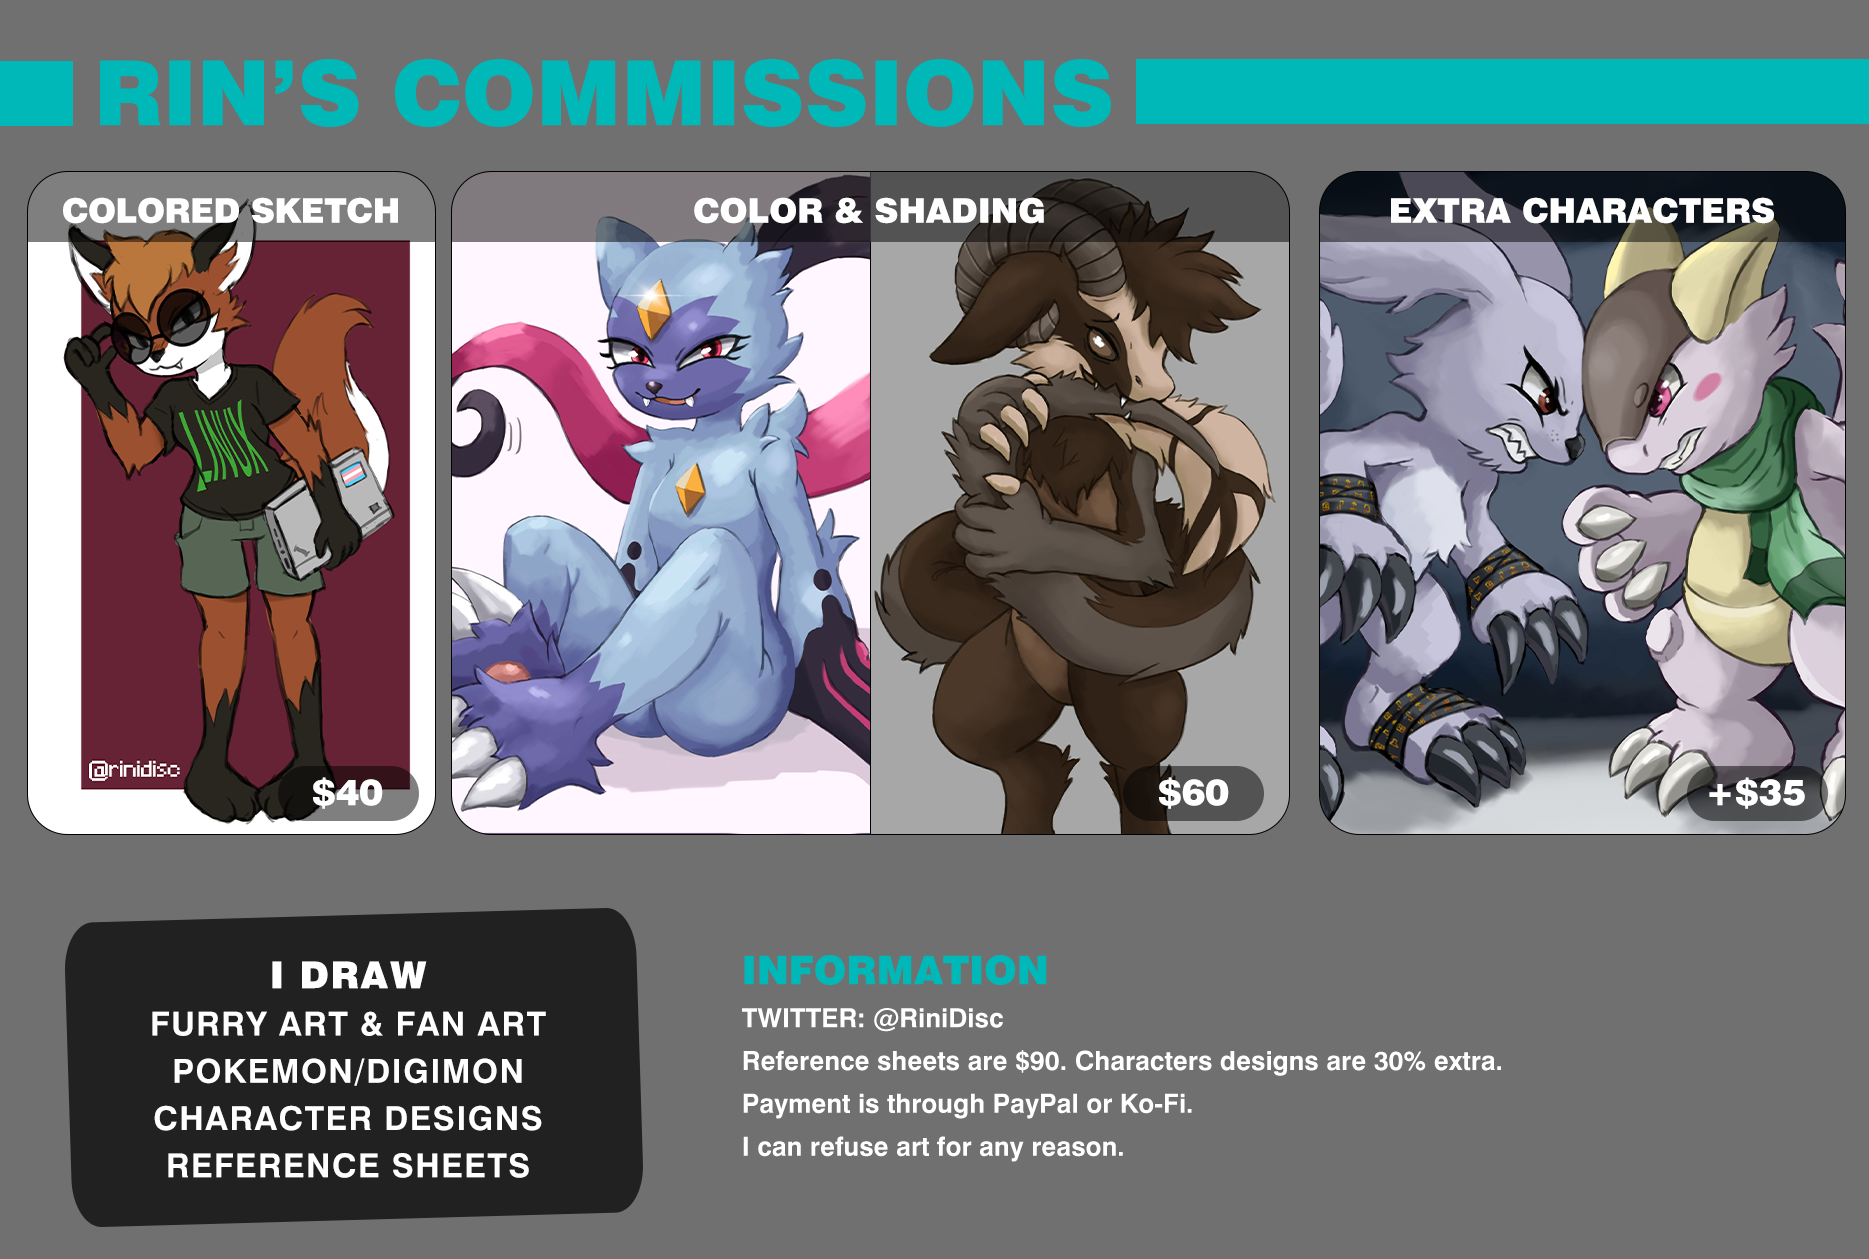
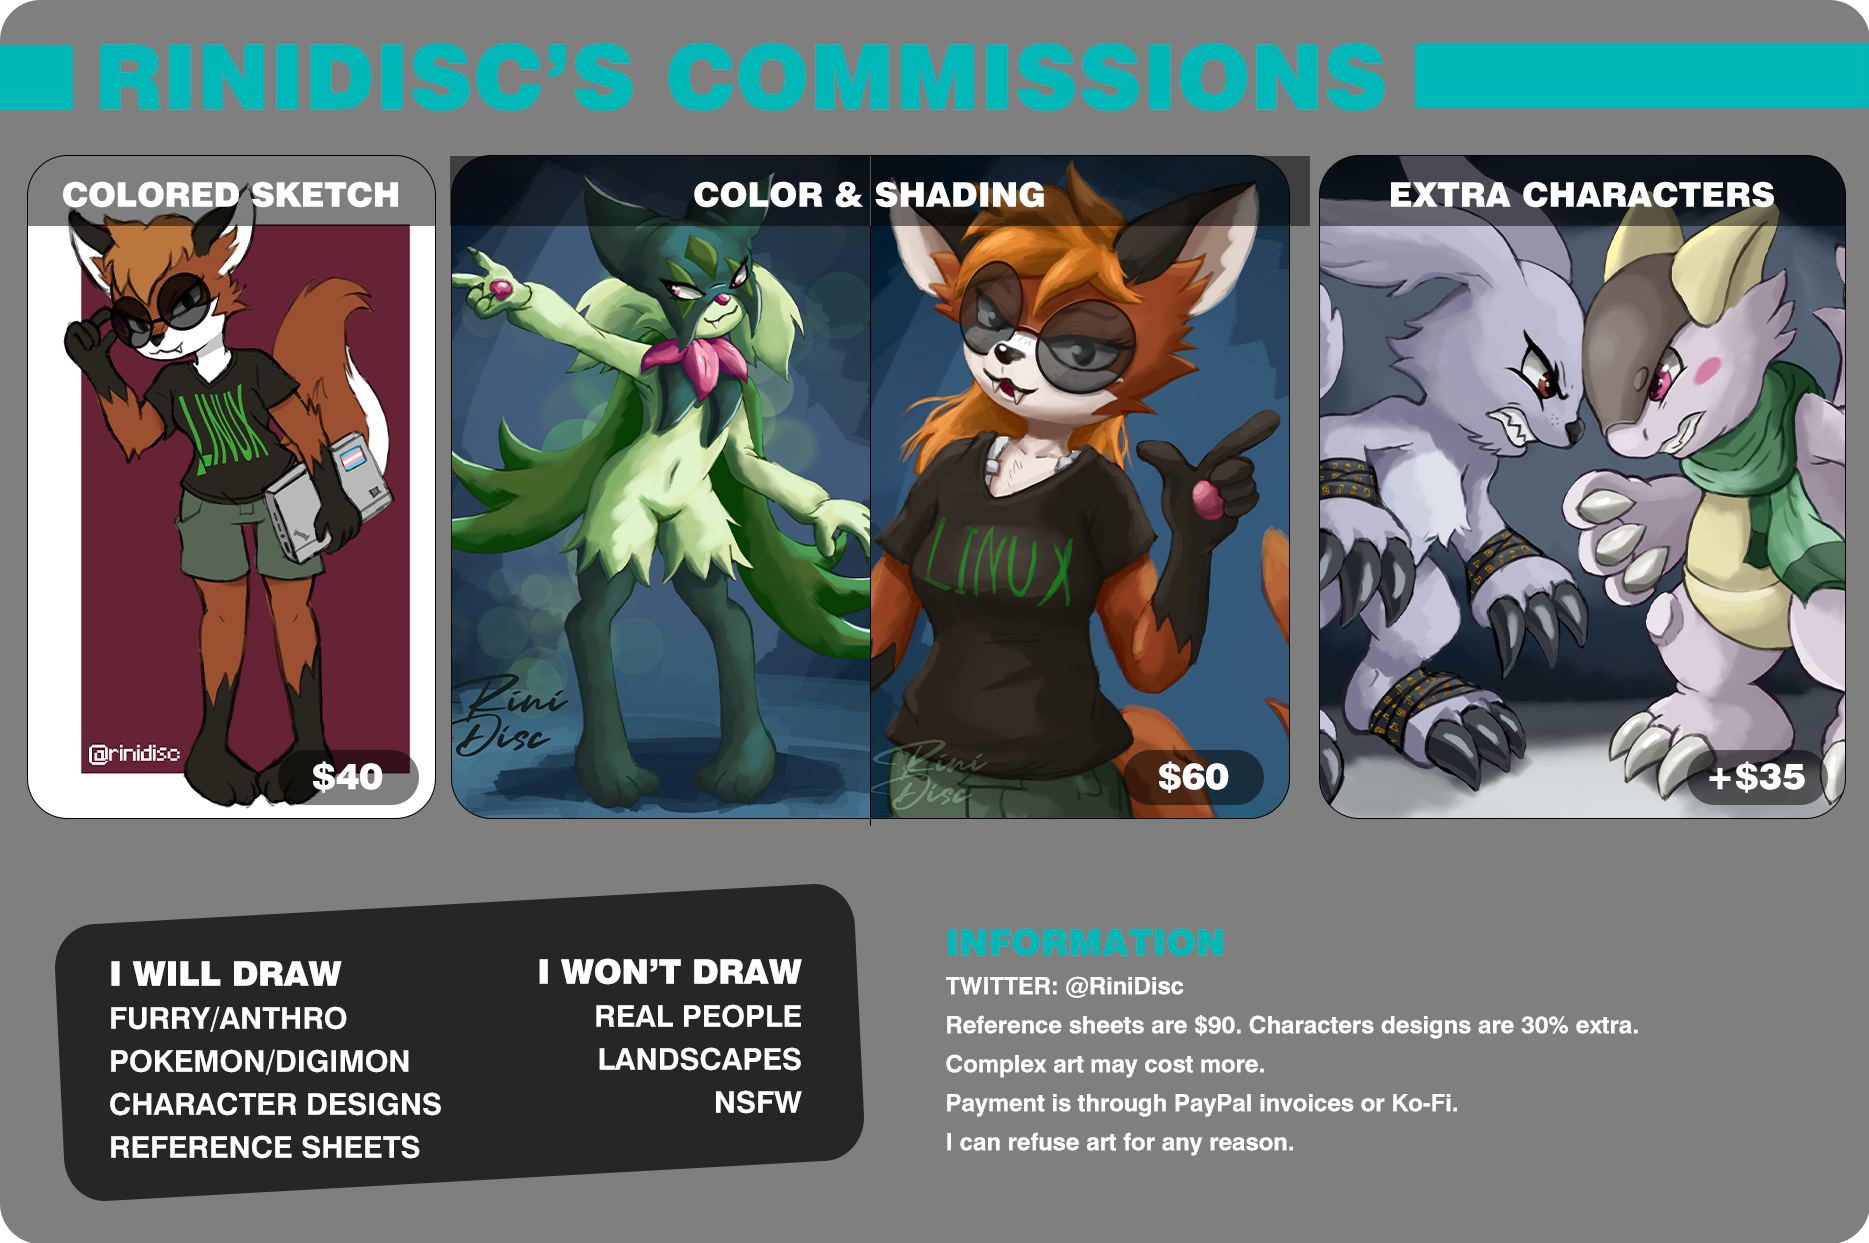
New Commissions sheet

diff --git a/Contact/commissions.html b/Contact/commissions.html
@@ -1,0 +1,126 @@
+<!DOCTYPE html>
+<html>
+<head>
+<link href='https://fonts.googleapis.com/css?family=Noto Sans' rel='stylesheet'>
+<link href='http://fonts.googleapis.com/css?family=Lato:300,400,700' rel='stylesheet' type='text/css'>
+<link rel="icon" type="image/x-icon" href="../fav.png">
+<title>Commissions</title>
+<style>
+    @import "../gallery.css";
+    body {
+        background-color:rgb(60, 58, 63);
+        background-image: url('bg.jpg');
+    }
+    h1 {
+      color:#0ab5b5;
+      font-size: 56px;
+    }
+    h2 {
+      color:#0ab5b5;
+      margin-bottom:0px;
+    }
+    img {
+      object-fit:contain;
+      aspect-ratio:initial;
+    }
+    .img_wide {
+      object-fit:contain;
+      aspect-ratio:unset;
+      width:100%;
+      border:0px;
+      border-radius: 20px;
+    }
+    .img_tweet {
+      max-width: 100px;
+      max-height: 100px;
+    }
+
+    .button-1 {
+      background-color: #0ab5b5;
+      border-radius: 8px;
+      border-style: none;
+      box-sizing: border-box;
+      color: #FFFFFF;
+      cursor: pointer;
+      display: inline-block;
+      font-family: 'lato', sans-serif;
+      font-size: 18px;
+      font-weight: normal;
+      height: 40px;
+      line-height: 20px;
+      list-style: none;
+      margin: 0;
+      outline: none;
+      padding: 10px 16px;
+      position: relative;
+      text-align: center;
+      text-decoration: none;
+      transition: color 100ms;
+      vertical-align: baseline;
+      user-select: none;
+      -webkit-user-select: none;
+      touch-action: manipulation;
+    }
+
+    .button-1:hover,
+    .button-1:focus {
+      background-color: #348e90;
+    }
+
+</style>
+</head>
+<body>
+
+  <div id="navbar">
+    <A HREF="../index.html">
+    <h1 class="navtitle" style="color:#0ab5b5">HOME</h1>
+    </A>
+
+    <A HREF="../commissions/commissions.html">
+    <h1 class="navtitle" style="color:white">COMMISSIONS</h1>
+    </A>
+
+    <A HREF="http://www.twitter.com/rinidisc">
+    <h1 class="navtitle" style="color:#0ab5b5">TWITTER</h1>
+    </A>
+
+    <A HREF="https://ko-fi.com/rinidisc">
+    <h1 class="navtitle" style="color:#0ab5b5">KO-FI</h1>
+    </A>
+  </div>
+
+
+  <div id=container>
+
+
+    <h2>Places to reach me</h2>
+    <A HREF="https://twitter.com/RiniDisc">
+      <button class="button-1" role="button">Twitter</button>
+    </A>
+    <br></br>
+    <A HREF="https://meow.social/@rinidisc">
+      <button class="button-1" role="button">Mastodon</button>
+    </A>
+    <br></br>
+	<A HREF="https://rinidisc.tumblr.com/">
+      <button class="button-1" role="button">Tumblr</button>
+    </A>
+    <br></br>
+    <A HREF="https://www.reddit.com/u/rinidisc">
+      <button class="button-1" role="button">Reddit</button>
+    </A>
+    <br></br>
+    <A HREF="https://www.furaffinity.net/user/rinidisc/">
+      <button class="button-1" role="button">Fur Affinity</button>
+    </A>
+    <br></br>
+    <A href="mailto:rinidisc@gmail.com">
+      <button class="button-1" role="button">Email</button>
+    </A>
+
+    <br></br>
+
+
+
+</body>
+</html>

diff --git a/2023/2023.html b/2023/2023.html
@@ -34,6 +34,12 @@
         <h1>2023</h1>
         
         <div class="cards">
+            <A HREF="a_2023/art 6.jpg">
+                <img style="object-position:top" src="a_2023/art 6.jpg">
+            </A>
+            <A HREF="a_2023/art 5.jpg">
+                <img style="object-position:top" src="a_2023/art 5.jpg">
+            </A>
             <A HREF="a_2023/art 4.jpg">
                 <img style="object-position:top" src="a_2023/art 4.jpg">
             </A>
